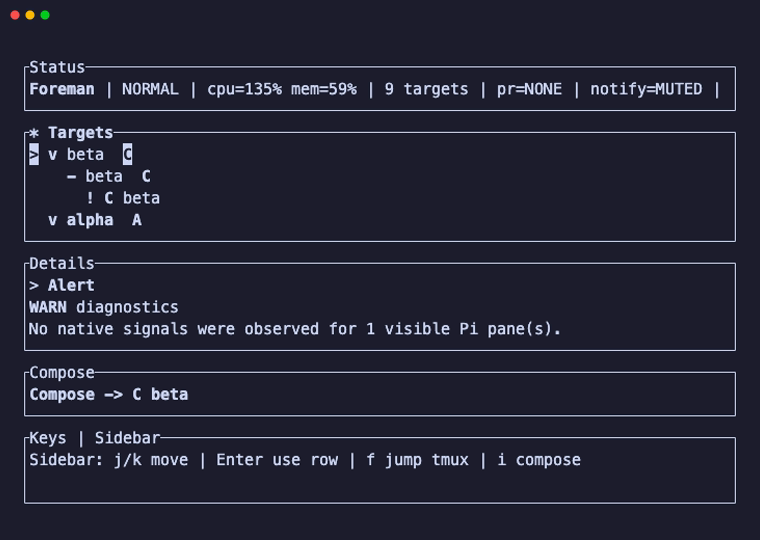
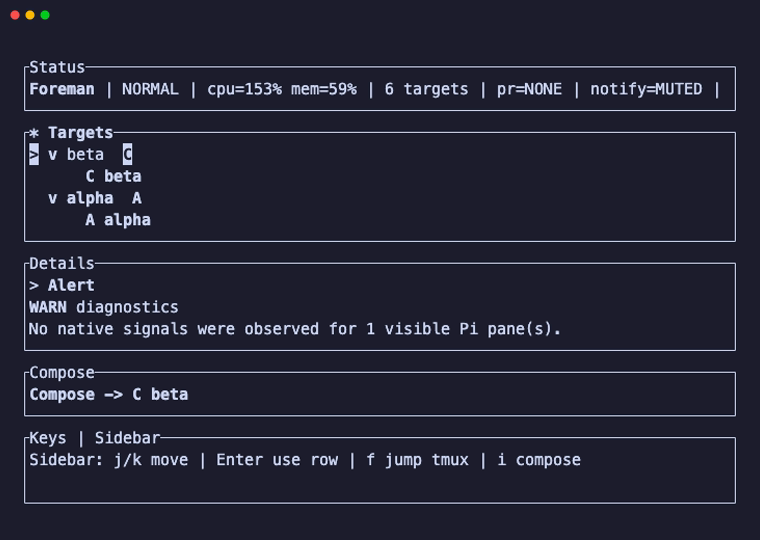
feat: simplify default sidebar agents

Changed region(s): [[0.0605, 0.2963, 0.2118, 0.4444], [0.4842, 0.1481, 0.5145, 0.1778], [0.3329, 0.1481, 0.3632, 0.1778]]

diff --git a/src/app/state.rs b/src/app/state.rs
@@ -668,9 +668,12 @@ impl Inventory {
             }
 
             for window in session.visible_windows(filters, sort_mode) {
-                targets.push(SelectionTarget::Window(window.id.clone()));
+                let visible_panes = window.visible_panes(filters, sort_mode);
+                if !should_elide_singleton_window(filters, visible_panes.len()) {
+                    targets.push(SelectionTarget::Window(window.id.clone()));
+                }
 
-                for pane in window.visible_panes(filters, sort_mode) {
+                for pane in visible_panes {
                     targets.push(SelectionTarget::Pane(pane.id.clone()));
                 }
             }
@@ -1811,25 +1814,27 @@ impl AppState {
 
             for window in visible_windows {
                 let visible_panes = window.visible_panes(&self.filters, self.sort_mode);
-                entries.push(VisibleTargetEntry {
-                    target: SelectionTarget::Window(window.id.clone()),
-                    actionable_pane_id: visible_panes.first().map(|pane| pane.id.clone()),
-                    actionable_workspace_path: visible_panes
-                        .first()
-                        .and_then(|pane| pane.working_dir.clone()),
-                    aggregate_workspace_path: unique_workspace_path(
-                        window
-                            .panes
-                            .iter()
-                            .filter_map(|pane| pane.working_dir.clone()),
-                    ),
-                    sidebar: SidebarRowKind::Window {
-                        name: window.navigation_title(),
-                        rank: window.attention_rank(),
-                        visible_panes: visible_panes.len(),
-                        harnesses: harness_summary_for_panes(visible_panes.iter().copied()),
-                    },
-                });
+                if !should_elide_singleton_window(&self.filters, visible_panes.len()) {
+                    entries.push(VisibleTargetEntry {
+                        target: SelectionTarget::Window(window.id.clone()),
+                        actionable_pane_id: visible_panes.first().map(|pane| pane.id.clone()),
+                        actionable_workspace_path: visible_panes
+                            .first()
+                            .and_then(|pane| pane.working_dir.clone()),
+                        aggregate_workspace_path: unique_workspace_path(
+                            window
+                                .panes
+                                .iter()
+                                .filter_map(|pane| pane.working_dir.clone()),
+                        ),
+                        sidebar: SidebarRowKind::Window {
+                            name: window.navigation_title(),
+                            rank: window.attention_rank(),
+                            visible_panes: visible_panes.len(),
+                            harnesses: harness_summary_for_panes(visible_panes.iter().copied()),
+                        },
+                    });
+                }
 
                 for pane in visible_panes {
                     entries.push(VisibleTargetEntry {
@@ -1902,6 +1907,10 @@ fn is_generic_window_name(name: &str) -> bool {
         name.trim().to_ascii_lowercase().as_str(),
         "" | "sh" | "zsh" | "bash" | "fish" | "nu" | "shell"
     )
+}
+
+fn should_elide_singleton_window(filters: &Filters, visible_pane_count: usize) -> bool {
+    visible_pane_count == 1 && !filters.show_non_agent_sessions && !filters.show_non_agent_panes
 }
 
 fn build_flash_targets(targets: &[SelectionTarget]) -> Vec<FlashTarget> {
@@ -2092,7 +2101,7 @@ mod tests {
     }
 
     #[test]
-    fn agent_first_sidebar_keeps_singleton_window_rows() {
+    fn agent_first_sidebar_elides_singleton_window_rows() {
         let inventory = inventory([SessionBuilder::new("alpha").window(
             WindowBuilder::new("alpha:0").name("agent-scaffold").pane(
                 PaneBuilder::agent("alpha:claude", HarnessKind::ClaudeCode)
@@ -2107,14 +2116,13 @@ mod tests {
             state.base_visible_targets(),
             vec![
                 SelectionTarget::Session("alpha".into()),
-                SelectionTarget::Window("alpha:0".into()),
                 SelectionTarget::Pane("alpha:claude".into()),
             ]
         );
         assert!(state
             .visible_target_entries()
             .iter()
-            .any(|entry| matches!(entry.sidebar, SidebarRowKind::Window { .. })));
+            .all(|entry| !matches!(entry.sidebar, SidebarRowKind::Window { .. })));
     }
 
     #[test]

diff --git a/src/ui/render.rs b/src/ui/render.rs
@@ -680,22 +680,16 @@ fn sidebar_line(state: &AppState, theme: &Theme, entry: &VisibleTargetEntry) -> 
             is_agent,
         } => {
             spans.push(Span::styled("    ", theme.muted));
-            spans.push(Span::styled(
-                format!("{} ", status_symbol(theme, *status, *is_agent)),
-                status_style(theme, *status, *is_agent),
-            ));
+            let pane_style = if selected {
+                theme.selected
+            } else {
+                status_style(theme, *status, *is_agent)
+            };
             spans.push(Span::styled(
                 format!("{} ", harness_badge(theme, *harness)),
-                if *is_agent {
-                    status_style(theme, *status, true)
-                } else {
-                    theme.muted
-                },
+                if *is_agent { pane_style } else { theme.muted },
             ));
-            spans.push(Span::styled(
-                navigation_title.clone(),
-                if selected { theme.selected } else { theme.base },
-            ));
+            spans.push(Span::styled(navigation_title.clone(), pane_style));
         }
     }
 
@@ -1823,20 +1817,6 @@ fn pull_request_status_style(theme: &Theme, status: PullRequestStatus) -> Style 
     }
 }
 
-fn status_symbol(theme: &Theme, status: Option<AgentStatus>, is_agent: bool) -> &'static str {
-    if !is_agent {
-        return theme.glyphs.non_agent;
-    }
-
-    match status.unwrap_or(AgentStatus::Unknown) {
-        AgentStatus::Working => theme.glyphs.working,
-        AgentStatus::NeedsAttention => theme.glyphs.attention,
-        AgentStatus::Idle => theme.glyphs.idle,
-        AgentStatus::Error => theme.glyphs.error,
-        AgentStatus::Unknown => theme.glyphs.unknown,
-    }
-}
-
 fn status_style(theme: &Theme, status: Option<AgentStatus>, is_agent: bool) -> Style {
     if !is_agent {
         return theme.non_agent;
@@ -2508,13 +2488,13 @@ mod tests {
     }
 
     #[test]
-    fn render_sidebar_keeps_tree_but_quiets_singleton_counts() {
+    fn render_sidebar_shows_agent_first_tree_without_singleton_window_noise() {
         let state = sample_state();
         let output = render_to_string(&state);
 
         assert!(output.contains("alpha"));
-        assert!(output.contains("agents"));
         assert!(output.contains("✦ alpha"));
+        assert!(!output.contains("• ✦ alpha"));
         assert!(!output.contains("agents 1p"));
         assert!(!output.contains("alpha  1w/1p"));
     }

diff --git a/src/app/reducer.rs b/src/app/reducer.rs
@@ -994,7 +994,7 @@ mod tests {
 
         assert_eq!(
             state.selection,
-            Some(SelectionTarget::Window("beta:agents".into()))
+            Some(SelectionTarget::Pane("beta:codex".into()))
         );
     }
 
@@ -1509,19 +1509,12 @@ mod tests {
             state.visible_targets(),
             vec![
                 SelectionTarget::Session("alpha".into()),
-                SelectionTarget::Window("alpha:agents".into()),
                 SelectionTarget::Pane("alpha:claude".into()),
             ]
         );
         assert_eq!(
             state.selection,
             Some(SelectionTarget::Session("alpha".into()))
-        );
-
-        reduce(&mut state, Action::MoveSelection(SelectionDirection::Next));
-        assert_eq!(
-            state.selection,
-            Some(SelectionTarget::Window("alpha:agents".into()))
         );
 
         reduce(&mut state, Action::MoveSelection(SelectionDirection::Next));

diff --git a/tests/runtime_dashboard.rs b/tests/runtime_dashboard.rs
@@ -463,7 +463,7 @@ fn interactive_binary_popup_focus_action_exits_after_success() {
     fixture.wait_for_alt_capture(&dashboard_pane, "Foreman");
     fixture.wait_for_alt_capture(&dashboard_pane, "Foreman | NORMAL");
     fixture.wait_for_alt_capture(&dashboard_pane, "▾ alpha");
-    fixture.wait_for_alt_capture(&dashboard_pane, "• ✦ foreman");
+    fixture.wait_for_alt_capture(&dashboard_pane, "✦ foreman");
 
     fixture.send_keys(&dashboard_pane, &["f"]);
     fixture.wait_for_capture(&dashboard_pane, "FOREMAN_EXITED");

diff --git a/tests/notification_runtime.rs b/tests/notification_runtime.rs
@@ -284,7 +284,7 @@ active_profile = "completion-only"
     fixture.wait_for_alt_capture(&dashboard_pane, "▾ alpha");
     fixture.wait_for_alt_capture(&dashboard_pane, "▾ beta");
 
-    fixture.send_keys(&dashboard_pane, &["j", "j"]);
+    fixture.send_keys(&dashboard_pane, &["j"]);
     fixture.wait_for_alt_capture(&dashboard_pane, "Compose ->");
 
     fixture.send_keys(&dashboard_pane, &["i", "s", "l", "e", "e", "p", "C-s"]);

diff --git a/tests/runtime_profiling.rs b/tests/runtime_profiling.rs
@@ -67,7 +67,7 @@ fn navigation_burst_limits_pull_request_lookup_churn() {
     );
 
     fixture.wait_for_alt_capture(&dashboard_pane, "Foreman | NORMAL");
-    fixture.wait_for_alt_capture(&dashboard_pane, "9 targets");
+    fixture.wait_for_alt_capture(&dashboard_pane, "6 targets");
     fixture.send_keys(&dashboard_pane, &["j", "j", "j", "j", "j", "j"]);
 
     wait_for_lookup_count(&gh_lookup_log, 1, 60);

diff --git a/SPEC.md b/SPEC.md
@@ -169,8 +169,9 @@ yet expose a stable contract.
 **R9. Main UI surfaces**
 
 - The dashboard includes a header with system and workload overview.
-- The dashboard includes a sidebar organized as a visible session/window/pane tree.
-- The sidebar preserves explicit tmux window rows so the hierarchy reads like a file tree.
+- The dashboard includes a sidebar organized as a semantic session/agent tree in the default agents-only view.
+- The default sidebar elides singleton tmux window rows so the operator sees the actionable agent directly under its session.
+- Topology-oriented views preserve explicit tmux window rows so the raw session/window/pane tree remains available when needed.
 - Singleton counts such as `1w/1p` or `1p` are not repeated when the visible hierarchy already communicates that structure.
 - The dashboard includes a detailed pane preview.
 - The dashboard includes an input area for sending text to the selected agent.
@@ -478,8 +479,10 @@ mise run ci
 - Given a mix of agent and non-agent panes, when the dashboard starts, non-agent-only sessions and non-agent panes are hidden by default.
 - When the operator toggles the relevant filters, those hidden items become visible.
 - Given one visible agent pane inside a one-pane tmux window, the default
-  sidebar still shows the session, window, and pane hierarchy while avoiding
-  redundant singleton counts.
+  sidebar shows the agent pane directly below its session, with harness glyph
+  and status styling on the pane row.
+- Given topology-oriented filters are enabled, the same one-pane tmux window
+  remains visible as an explicit window row.
 - Given visible supported harness families, pressing the harness-view key cycles
   the sidebar through those harnesses plus the unfiltered view and reconciles the
   selection to a visible target without stopping on empty harness views by

diff --git a/.ai/plans/2026-04-27-1247-sidebar-agent-first-tree/SPEC.md b/.ai/plans/2026-04-27-1247-sidebar-agent-first-tree/SPEC.md
@@ -1,0 +1,19 @@
+# SPEC — Sidebar Agent-First Tree
+
+## Problem
+
+The default sidebar should optimize for the operator's semantic model: sessions contain actionable agents. Raw tmux windows are useful topology, but singleton window rows add redundant nesting in the normal agents-only view.
+
+## Requirements
+
+- Default agents-only view renders `session -> agent pane` for singleton agent windows.
+- Pane rows carry the semantic harness/status signal directly through glyph and styling.
+- Topology/all-target modes keep explicit `session -> window -> pane` rows.
+- Multi-pane windows remain explicit so users can distinguish panes under one tmux window.
+- Popup and regular modes remain visually consistent.
+- Regression tests and UX artifacts cover the behavior.
+
+## Non-Goals
+
+- No tmux inventory discovery changes.
+- No new user-facing toggle beyond existing visibility/topology filters.

diff --git a/.ai/plans/2026-04-27-1247-sidebar-agent-first-tree/LEARNING_LOG.md b/.ai/plans/2026-04-27-1247-sidebar-agent-first-tree/LEARNING_LOG.md
@@ -1,0 +1,17 @@
+# Learning Log
+
+## Initial Decision
+
+The earlier flattening was directionally right for default agent-first mode, but the popup compact layout made it feel like stacked horizontal sections. With popup consistency fixed, `session -> agent` is the cleaner default.
+
+
+## Implementation Notes
+
+- The default sidebar now elides singleton window rows again, but popup mode keeps a side-by-side layout so the result reads as a tree rather than stacked bands.
+- Pane rows use the harness glyph plus status-colored text instead of a separate bullet-like status marker.
+
+
+## Validation Notes
+
+- `mise run check` caught a stale runtime assertion for the removed bullet marker; updating that assertion confirmed the intended `✦ foreman` row.
+- `verify-ux` now captures the cleaned default and popup sidebar presentation.

diff --git a/.ai/plans/2026-04-27-1247-sidebar-agent-first-tree/VALIDATION.md b/.ai/plans/2026-04-27-1247-sidebar-agent-first-tree/VALIDATION.md
@@ -1,0 +1,15 @@
+# Validation
+
+Focused validation:
+
+- `cargo test --lib app::state::tests -- --nocapture` — passed
+- `cargo test --lib app::reducer::tests::move_selection_uses_sorted_visible_targets -- --nocapture` — passed
+- `cargo test --lib app::reducer::tests::search_navigation_moves_between_filtered_matches -- --nocapture` — passed
+- `cargo test --lib ui::render::tests::render_sidebar_shows_agent_first_tree_without_singleton_window_noise -- --nocapture` — passed
+- `cargo test --lib ui::render::tests::render_popup_prefers_side_by_side_tree_layout_at_typical_size -- --nocapture` — passed
+
+Full validation:
+
+- `mise run check` — passed
+- `mise run verify-ux` — passed; refreshed regular and popup UX artifacts
+

diff --git a/.ai/plans/2026-04-27-1247-sidebar-agent-first-tree/IMPLEMENTATION.md b/.ai/plans/2026-04-27-1247-sidebar-agent-first-tree/IMPLEMENTATION.md
@@ -1,0 +1,8 @@
+# Implementation Plan
+
+1. Add a helper for default agent-first singleton window elision.
+2. Apply it consistently to visible targets and rendered entries.
+3. Adjust pane rendering so the direct child row reads as semantic agent content.
+4. Update SPEC and tests for default semantic tree vs topology modes.
+5. Run focused tests, `mise run check`, and `mise run verify-ux`.
+6. Push the PR update and poll CI/reviews.

diff --git a/.ai/plans/2026-04-27-1247-sidebar-agent-first-tree/TODO.md b/.ai/plans/2026-04-27-1247-sidebar-agent-first-tree/TODO.md
@@ -1,0 +1,8 @@
+# TODO
+
+- [x] Create slice plan
+- [x] Implement agent-first singleton elision
+- [x] Update render semantics
+- [x] Update SPEC and tests
+- [x] Run full validation
+- [ ] Push PR update and poll CI
